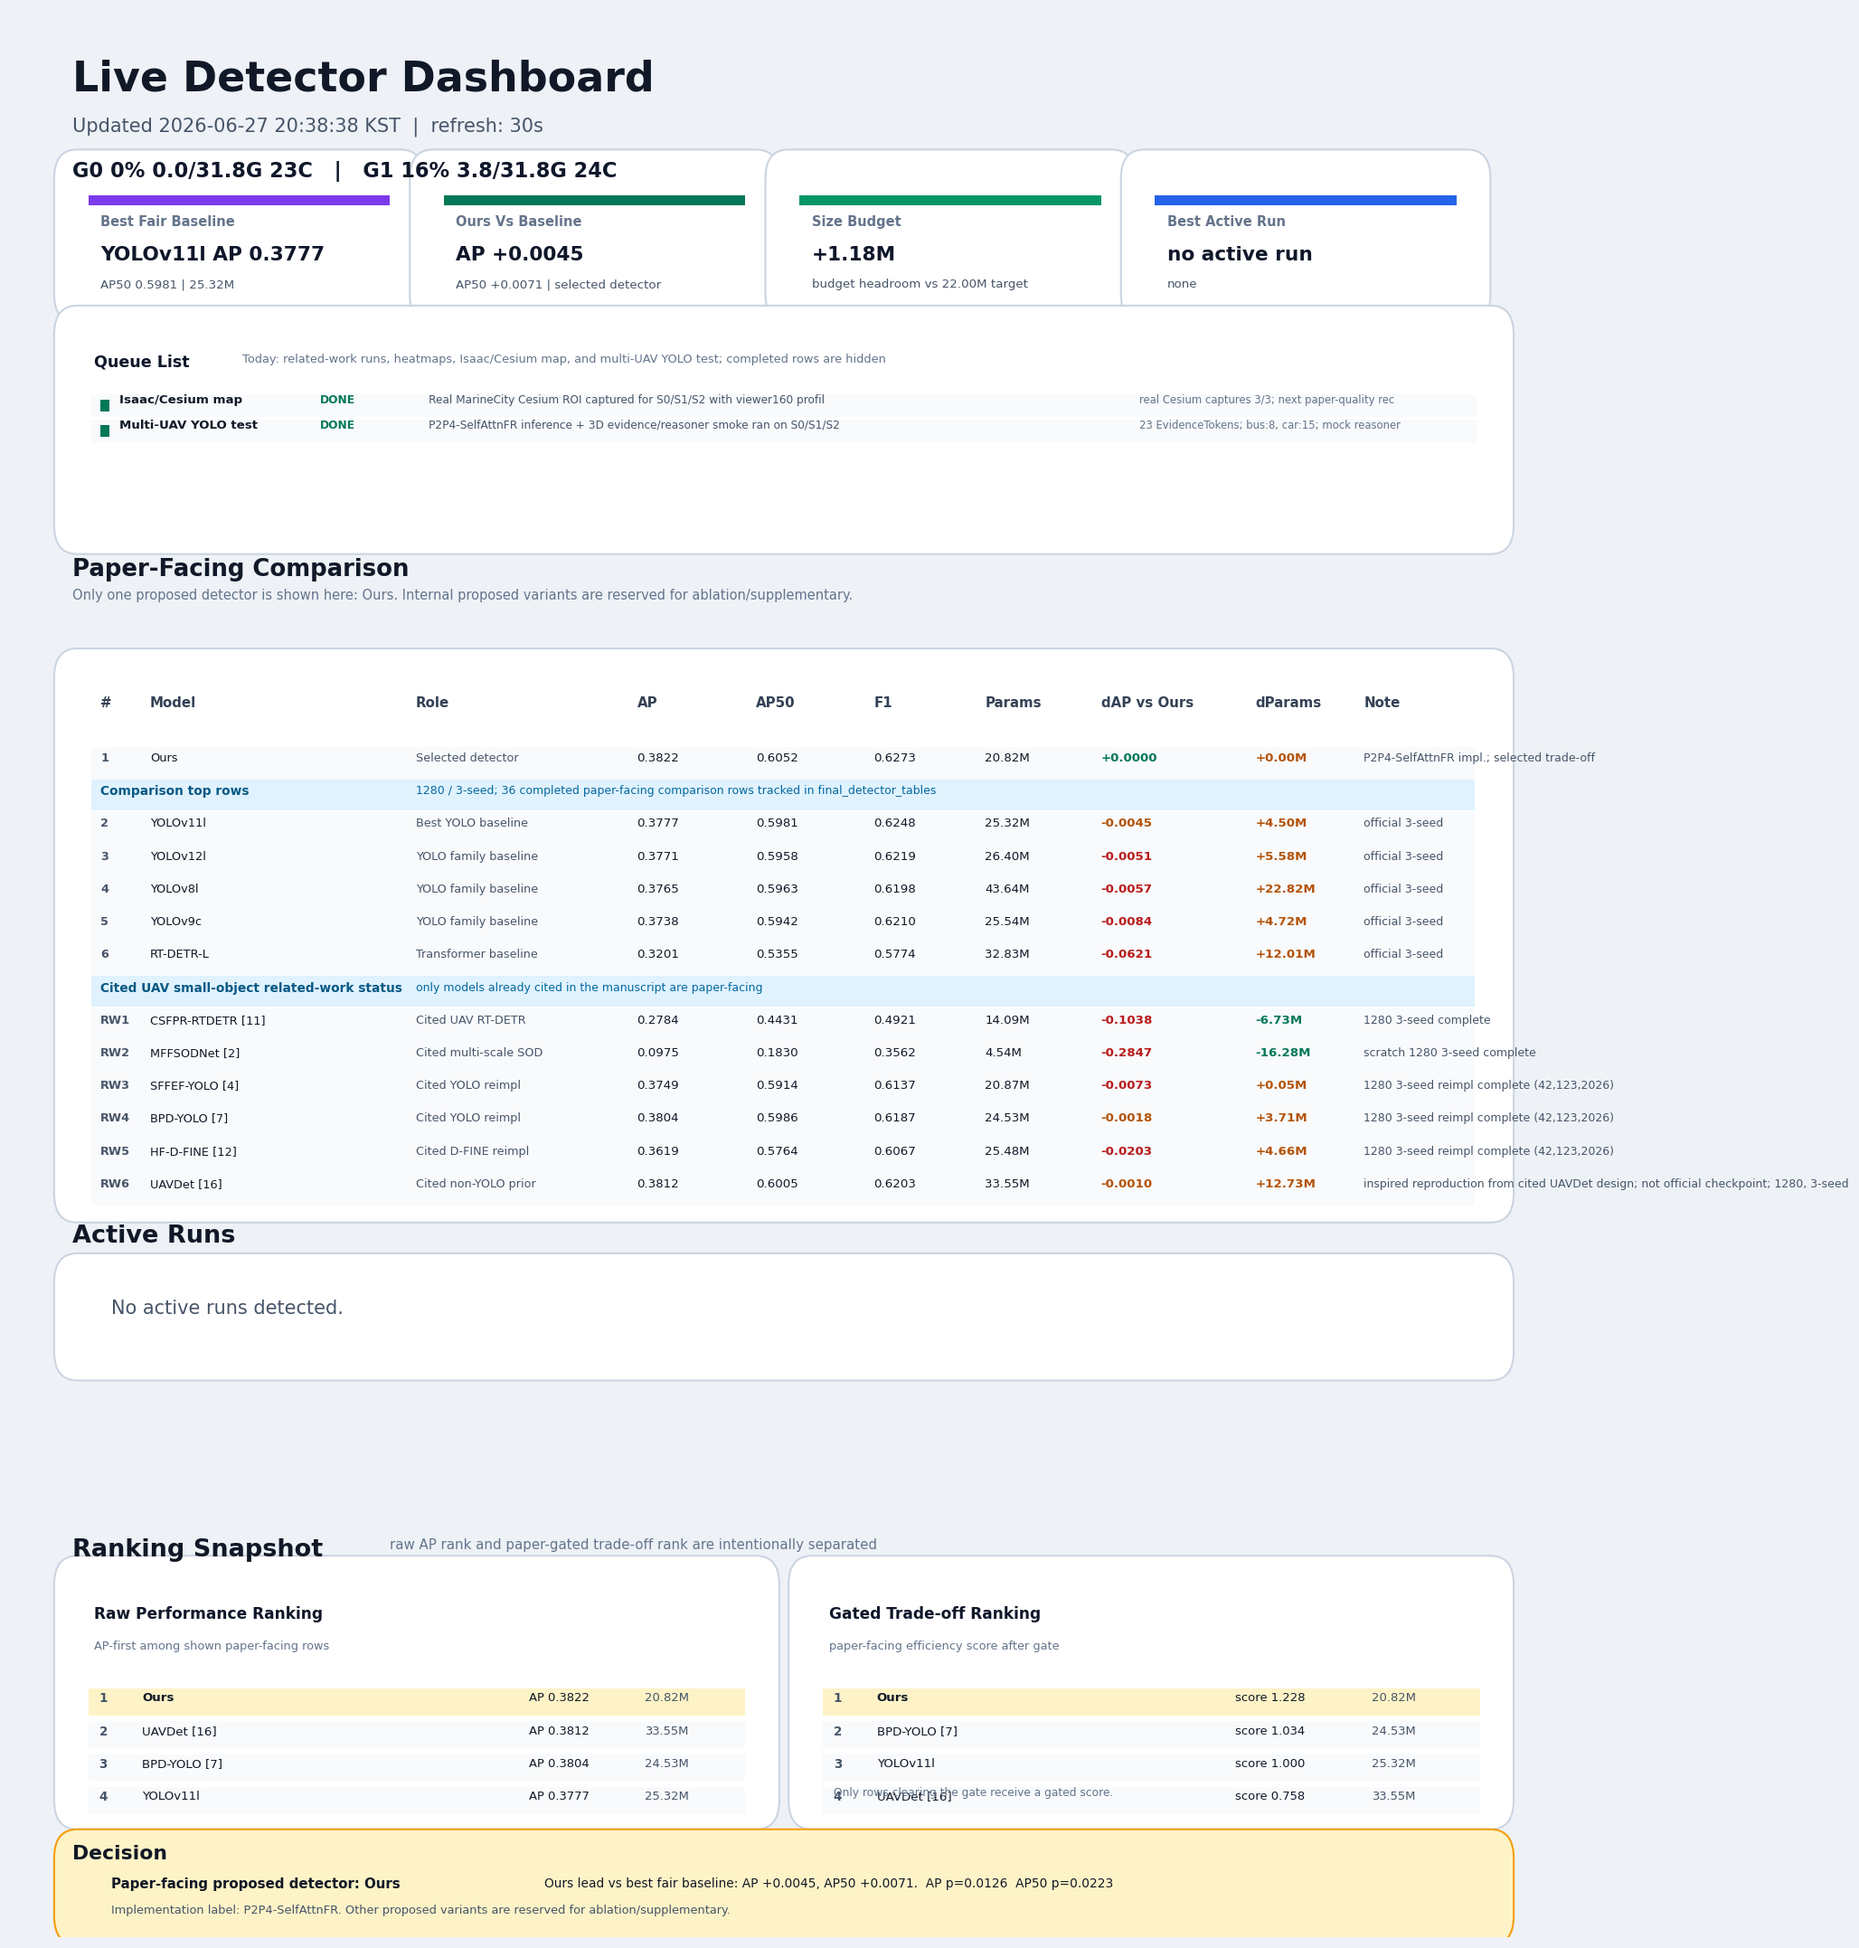
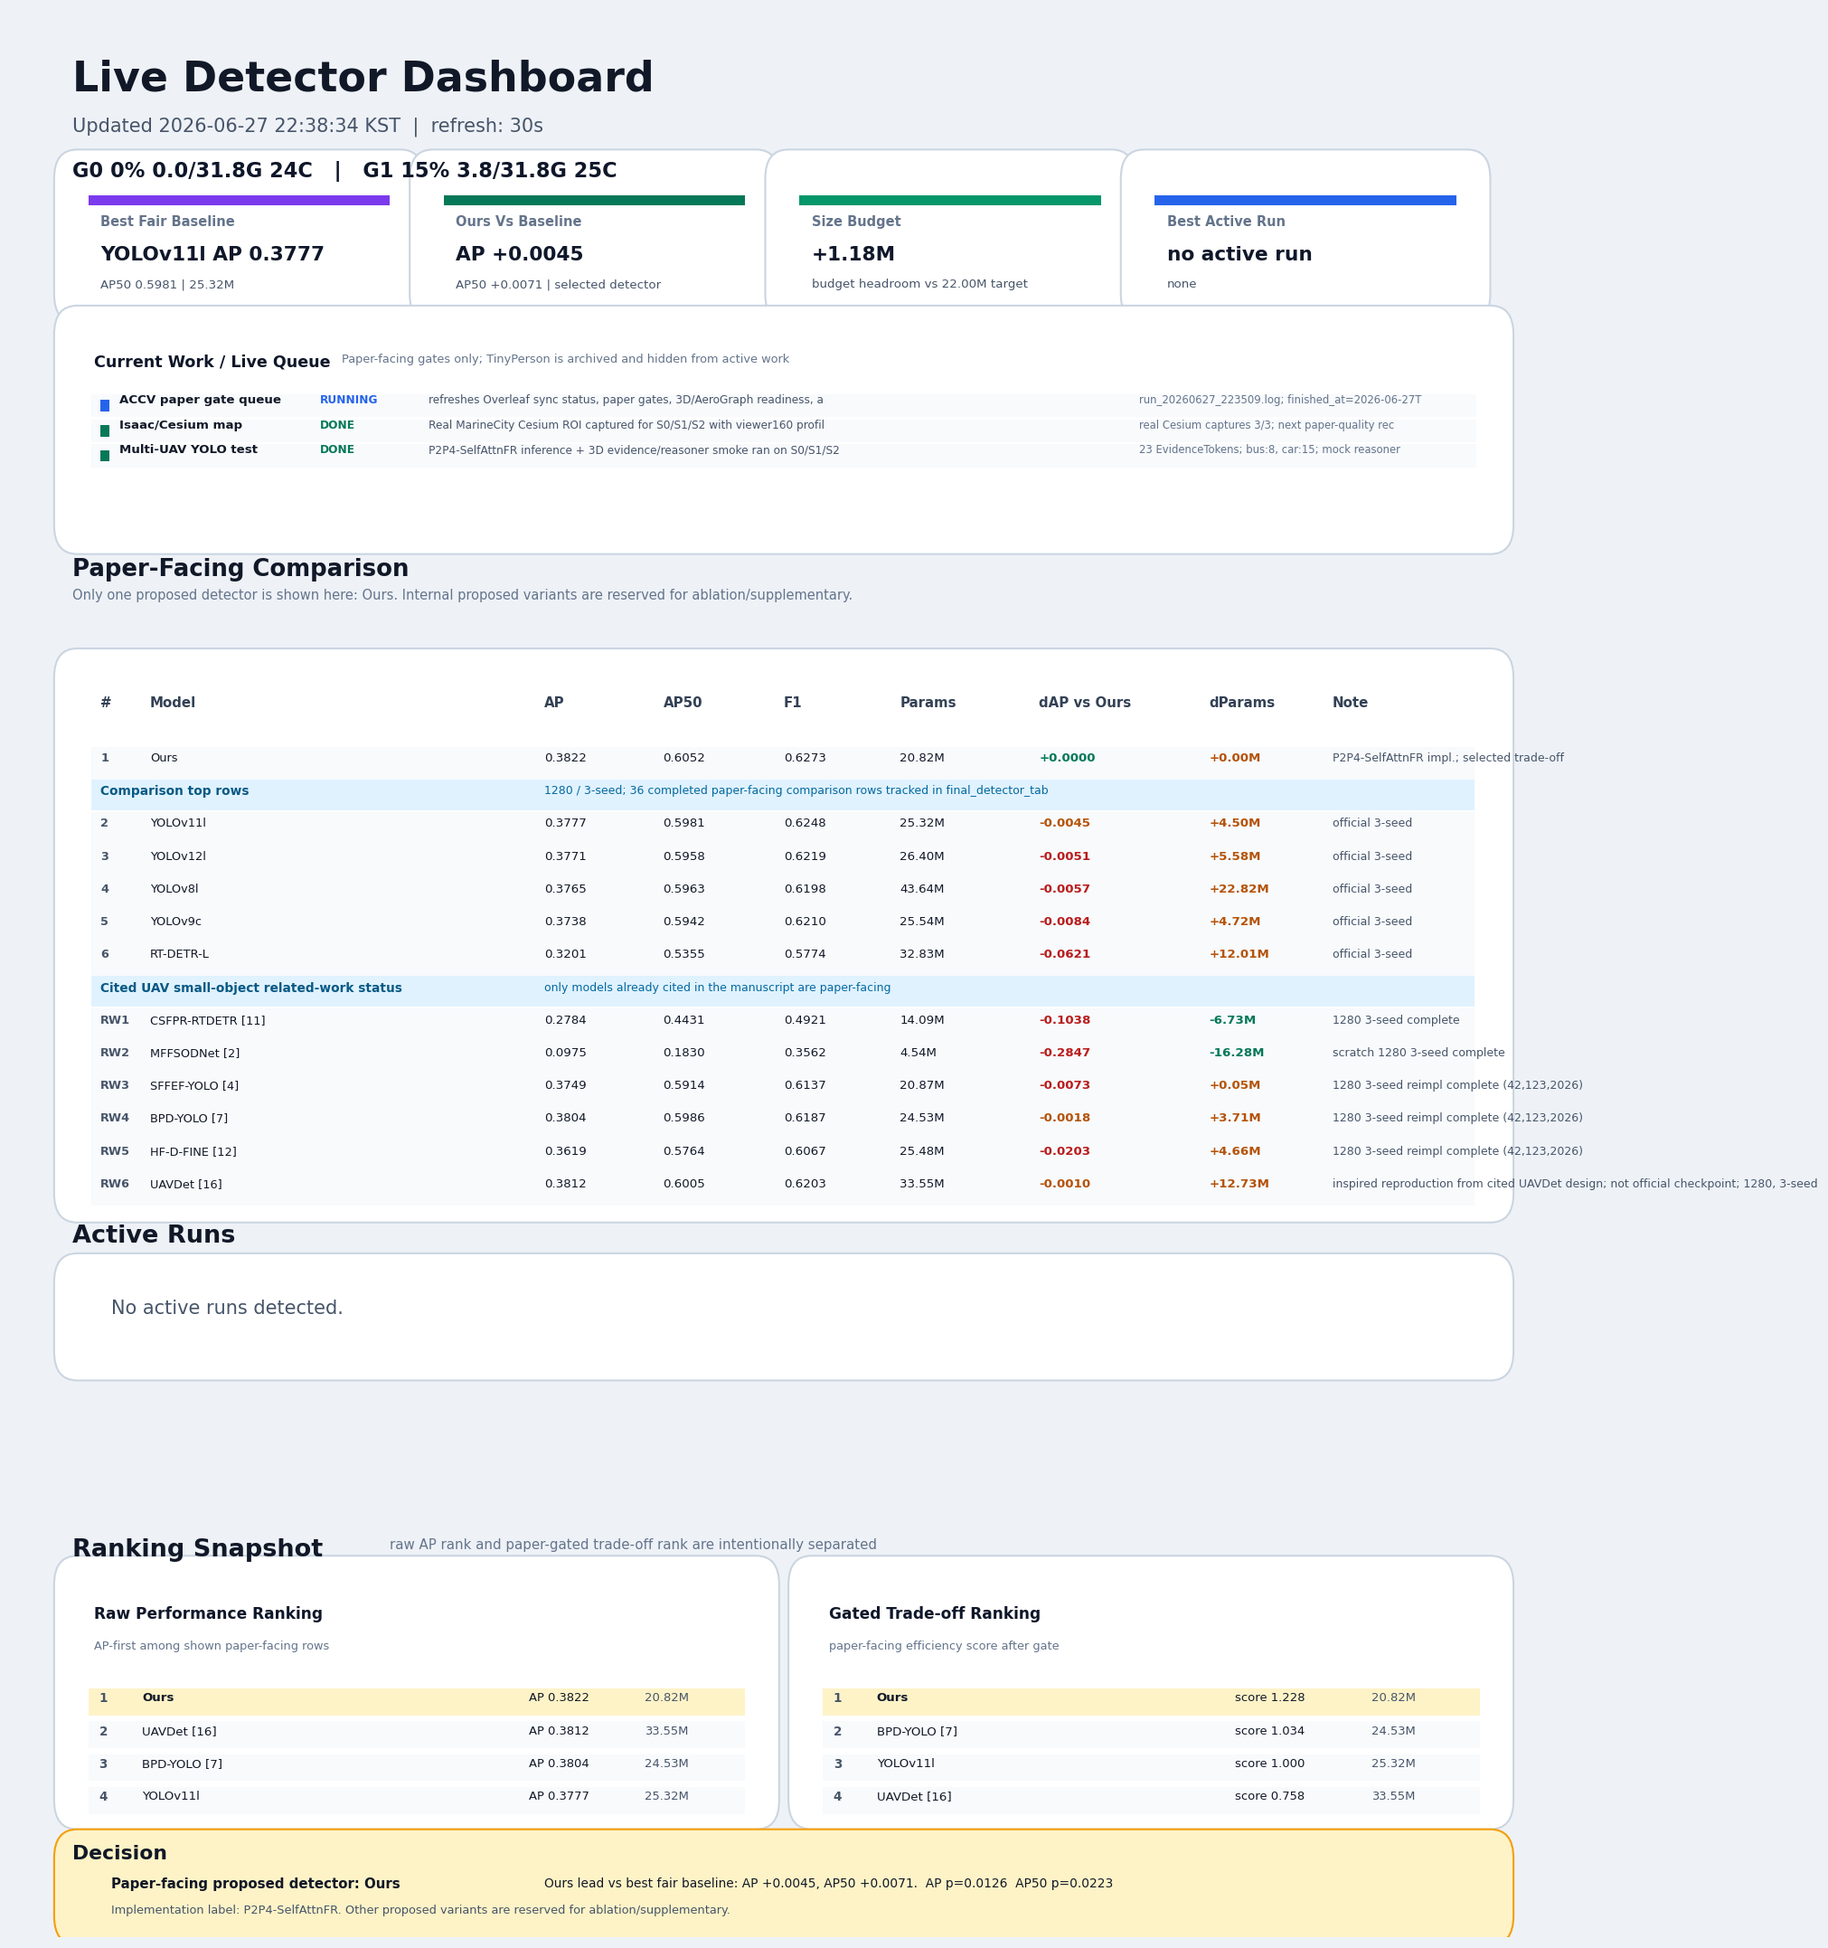
Refresh 3D readiness and live dashboards

diff --git a/scripts/check_marinecity_3d_runner_preflight.py b/scripts/check_marinecity_3d_runner_preflight.py
@@ -136,7 +136,11 @@ def write_markdown(path: Path, report: dict[str, Any]) -> None:
 
 def main() -> None:
     parser = argparse.ArgumentParser(description=__doc__)
-    parser.add_argument("--conda-env", default="com3d-ace")
+    parser.add_argument(
+        "--conda-env",
+        default="marinecity-nerfstudio",
+        help="Conda environment used for neural-3D runners. Use com3d-ace only for geometry-smoke checks.",
+    )
     parser.add_argument("--out-json", default=str(LIVE_DIR / "marinecity_3d_runner_preflight.json"))
     parser.add_argument("--out-md", default=str(LIVE_DIR / "marinecity_3d_runner_preflight.md"))
     args = parser.parse_args()

diff --git a/outputs/reports/live/marinecity_3d_runner_preflight.md b/outputs/reports/live/marinecity_3d_runner_preflight.md
@@ -1,8 +1,8 @@
 # MarineCity 3D Runner Preflight
 
-Updated: `2026-06-27 13:34:57 KST`
+Updated: `2026-06-27 22:28:57 KST`
 Status: `marinecity_3d_runner_preflight_ready`
-Neural runner available: `False`
+Neural runner available: `True`
 Geometry smoke available: `True`
 
 ## Current Python
@@ -26,22 +26,22 @@ Geometry smoke available: `True`
 | numpy | `True` | `` |
 | PIL | `True` | `` |
 
-## Conda Env `com3d-ace`
+## Conda Env `marinecity-nerfstudio`
 
 
 | Command | Path |
 |---|---|
-| ns-train | `None` |
-| ns-process-data | `None` |
+| ns-train | `/home/oem/anaconda3/envs/marinecity-nerfstudio/bin/ns-train` |
+| ns-process-data | `/home/oem/anaconda3/envs/marinecity-nerfstudio/bin/ns-process-data` |
 | colmap | `None` |
 | instant-ngp | `None` |
 
 | Module | Available | Error |
 |---|---|---|
-| nerfstudio | `False` | `ModuleNotFoundError: No module named 'nerfstudio'` |
-| open3d | `False` | `ModuleNotFoundError: No module named 'open3d'` |
-| plyfile | `False` | `ModuleNotFoundError: No module named 'plyfile'` |
-| trimesh | `False` | `ModuleNotFoundError: No module named 'trimesh'` |
+| nerfstudio | `True` | `` |
+| open3d | `True` | `` |
+| plyfile | `True` | `` |
+| trimesh | `True` | `` |
 | cv2 | `True` | `` |
 | numpy | `True` | `` |
 | PIL | `True` | `` |

diff --git a/outputs/reports/live/marinecity_3d_completion_results_table.md b/outputs/reports/live/marinecity_3d_completion_results_table.md
@@ -1,6 +1,6 @@
 # MarineCity Neural-3D Completion Result Table
 
-Updated: `2026-06-27 18:15:44 KST`
+Updated: `2026-06-27 22:35:53 KST`
 Source CSV: `outputs/experiments/3d_generation_comparison.csv`
 Verified rows: `3` / total rows `3`
 

diff --git a/outputs/reports/live/paper_artifact_readiness_check.md b/outputs/reports/live/paper_artifact_readiness_check.md
@@ -1,6 +1,6 @@
 # Paper Artifact Readiness Check
 
-Updated: `2026-06-27 22:20:08 KST`
+Updated: `2026-06-27 22:36:55 KST`
 Status: `paper_artifact_audit_ok_with_pending_gates`
 
 ## Summary

diff --git a/outputs/reports/live/marinecity_3d_completion_readiness.md b/outputs/reports/live/marinecity_3d_completion_readiness.md
@@ -1,6 +1,6 @@
 # MarineCity 3D Completion Readiness
 
-Updated: `2026-06-27 20:37:46 KST`
+Updated: `2026-06-27 22:35:54 KST`
 Status: `marinecity_3d_completion_ready`
 
 ## Capture Source

diff --git a/outputs/reports/live/latex_patch_integrity_check.md b/outputs/reports/live/latex_patch_integrity_check.md
@@ -1,6 +1,6 @@
 # LaTeX Patch Integrity Check
 
-Updated: `2026-06-27 22:20:06 KST`
+Updated: `2026-06-27 22:36:54 KST`
 Status: `latex_patch_integrity_ok`
 
 ## Summary
